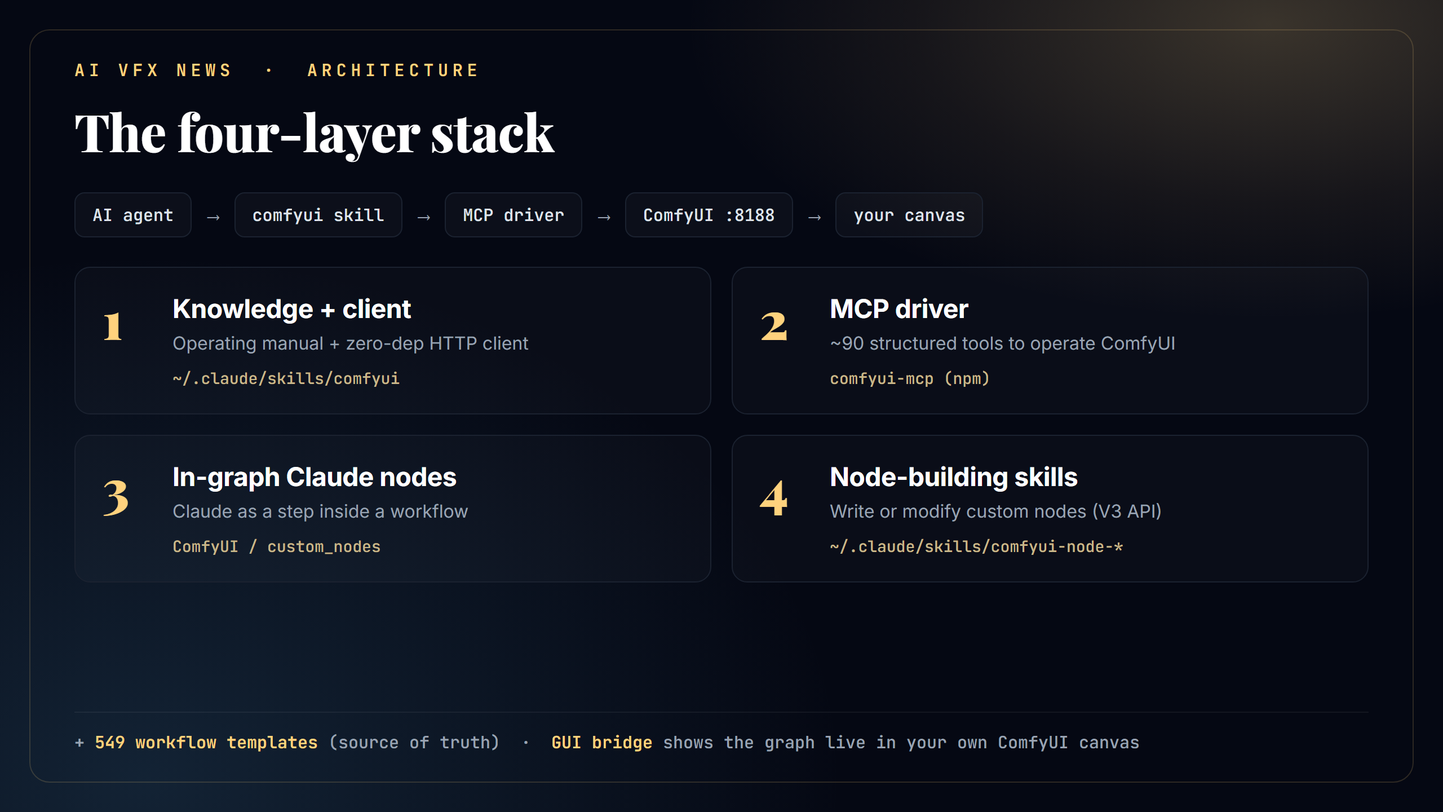
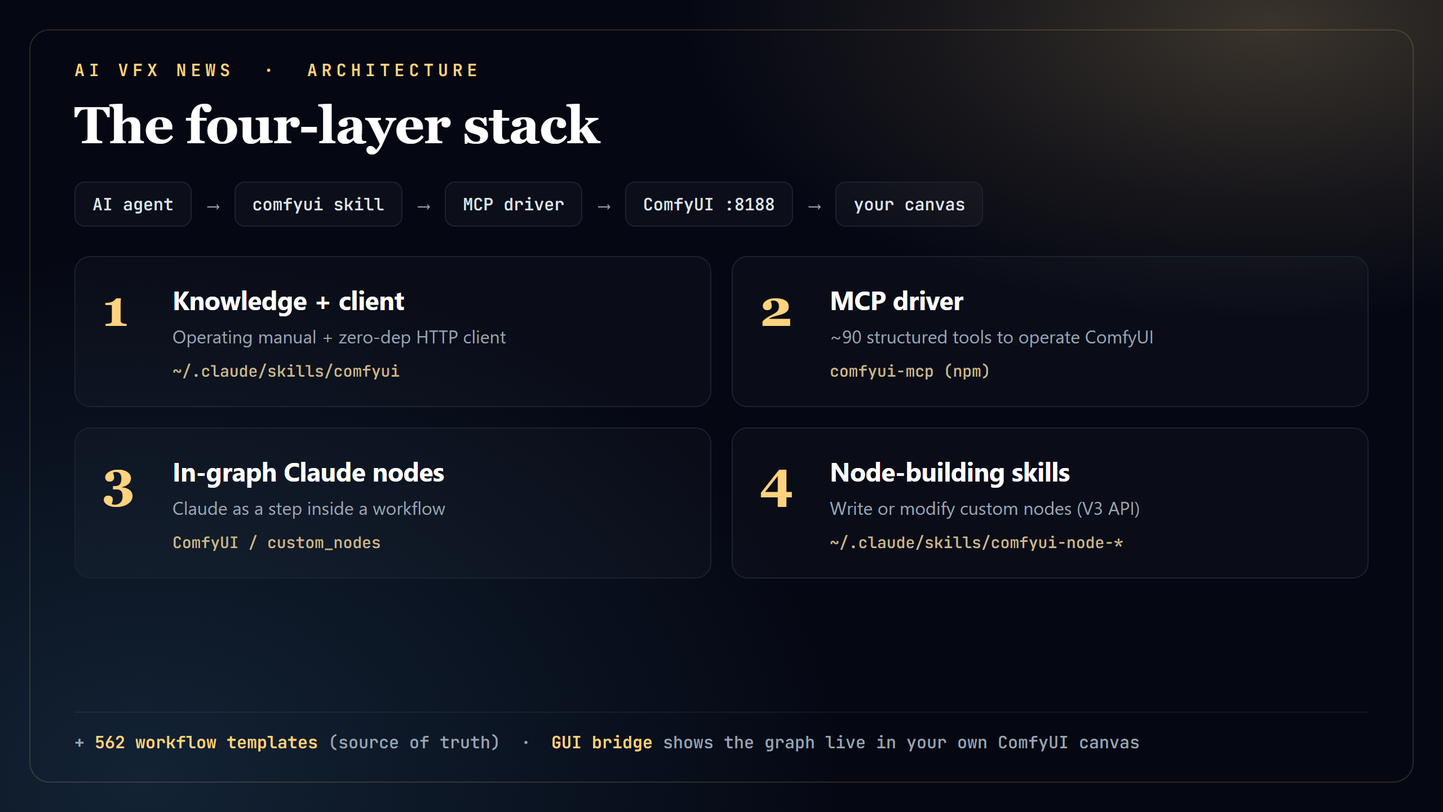
Weekly cycle 2026-07-18: Sync 3 recipe, ComfyUI v0.28.0 sweep, KNOWN_ISSUES refresh
RESPONSIBLE FOR: the Saturday weekly cycle, prepared for release but NOT cut.

Added the Sync 3 (sync.so) recipe, confirmed from comfy_api_nodes/nodes_sync_so.py:
SyncLipSyncNode (video+audio, sync_mode bounce/cut_off/loop/silence/remap which
also sets output length, face location default/auto-detect/coordinates) and
SyncTalkingImageNode (image+audio+optional prompt, duration matches the audio),
both -> SaveVideo; 4K ceiling, constant 24/25/30 fps preferred, non-deterministic
regardless of seed per the node's own tooltip.

Swept ComfyUI core v0.28.0 (2026-07-15, which I had wrongly recorded as still
v0.27.0). Two breaking removals now documented: IdeogramV1/V2 nodes removed
(verified independently: only V3/V4 remain in nodes_ideogram.py) and all
StabilityAI nodes removed (verified: no stability file in comfy_api_nodes on
master). Added the Seedream disable-thinking widget, native int4 convrot plus the
Turing black-image fix, and the official int8 templates now shipping library-wide.

KNOWN_ISSUES refreshed 2026-07-01 -> 2026-07-18: int8 whole-machine crash
(#14985), Nodes Manager broken after 0.28.0 (#14967), SeedVR2 no temporal
consistency (#14970), the two node removals; fixed rows for the four security
vulnerabilities (GHSA-779p-m5rp-r4h4), several crash fixes, the HLG clamp fix and
the dropped PyTorch 2.4 support.

Counts 71->72 recipes, 152->153 models, 549->562 templates, synced across README,
[…]

diff --git a/claude-code/skills/comfyui/MODELS.md b/claude-code/skills/comfyui/MODELS.md
@@ -197,6 +197,7 @@ FLUX prose will not help SDXL).
 ## Image models (API / closed)
 
 ### Ideogram (2.x to 4.0)
+- **Nodes available (ComfyUI v0.28.0):** only **`IdeogramV3`** and **`IdeogramV4`** ship now. The old **`IdeogramV1` and `IdeogramV2` nodes were REMOVED in v0.28.0** (Comfy-Org PR #14712), so an older graph that loads them will fail to resolve the node; rebuild it on V3 / V4. Confirmed from `comfy_api_nodes/nodes_ideogram.py` on master (only V3, V4 and the extension are defined) plus the v0.28.0 release notes.
 - **Prompt style:** natural-language sentences (no tags, no `--ar`/`::` flags); typography specialist.
 - **Structure:** describe as to a person; important elements and text early; exact text in quotes (under ~25 chars), describe font style/position/color, don't name fonts.
 - **Strengths:** quoted-text rendering, posters/logos/signage; `DESIGN` style for typography, `REALISTIC` for photos.
@@ -245,6 +246,7 @@ FLUX prose will not help SDXL).
 - **Prompt style:** same natural-language, CoT-reasoning family as 5.0 Lite (relationship-first sentences, NOT keyword lists); state object relationships and, for a series, count + consistency; exact text in double quotes; label refs as Figure 1, 2.
 - **Strengths:** ByteDance's latest image model - **multi-modal in ONE node** (text-to-image, precise image editing, multi-image inputs); strong **character + product consistency** (portrait identity / lighting / realism held across style changes and edits); **region-precise editing** (edit a target area, leave lighting / depth / texture elsewhere untouched); **structured layouts** (infographics, flowcharts, mixed text+image with legible small text). Up to ~2048x2048.
 - **Avoid:** quality boosters ("masterpiece", "8K", "best quality") HARM output (they distract the CoT pipeline); no `(word:1.3)` weights; negatives NOT supported; no guidance-scale param.
+- **Thinking toggle (ComfyUI v0.28.0):** the Seedream node gained a widget to **disable thinking** (Comfy-Org PR #14853). Leave it ON for the CoT behaviour this recipe assumes (relationship reasoning, layout planning); turn it OFF for a faster, more literal pass when the prompt is already explicit and you do not want the model re-planning the composition.
 - **Build the graph (confirmed from the official templates):** ONE node **`ByteDanceSeedreamNodeV2`** -> **`SaveImageAdvanced`** (its `IMAGE` out -> `SaveImageAdvanced.images`). Node widgets = prompt, `model` = `seedream 5.0 pro`, a **size-preset combo** (e.g. `(1K) 1024x1024 (1:1)`) + width / height (up to 2048), seed + control_after_generate (leave the remaining toggles at their template defaults).
   - **t2i** - just the node, its `model.images.image_1` input left unconnected.
   - **edit / multi-image** - **`LoadImage`** -> `model.images.image_1` (add `image_2`, `image_3`... for more refs) -> node -> `SaveImageAdvanced`. To constrain the edit to a drawn region, route `LoadImage` through a **`Painter`** node first (draw marks; its `IMAGE` out feeds `image_1`) - the official edit template does exactly this.
@@ -746,6 +748,22 @@ Qwen-Image-Edit, OmniGen (above), Seedream Edit, and Nano Banana edit, which are
 - **Avoid:** complex multi-stage motion, stacking camera types, over-describing. Negatives ARE supported ("ugly, blurry, low quality, watermark, distorted, jittery, morphing"). Pikaffects/Pikaswaps are web-UI only.
 - **Settings:** 720/1080p; 5/10s; many aspects; guidance 8-24 (def 12); motion intensity 1-4 (def 1).
 - **Source:** pika.art ; docs.pika.art ; node template `pika.md`.
+
+### Sync 3 (sync.so) - lip sync + talking image
+- **What it is:** a dedicated LIP-SYNC model, not a general video generator. Two jobs: re-sync the mouth of existing footage to new speech, or bring a single still portrait to life from an audio track. Handles close-ups, profiles and partial obstructions automatically while preserving the speaker's expression. Cost scales with output duration. API / paid (Comfy Cloud or a sync.so key).
+- **Prompt style:** only the Talking Image node takes text, and it is OPTIONAL guidance for how the portrait comes to life (framing, mood, small motion), not a scene description. The audio drives everything else. Lip Sync takes no prompt at all.
+- **Build the graph (confirmed from `comfy_api_nodes/nodes_sync_so.py` + the official templates):**
+  - **Lip sync existing footage** - `LoadVideo` -> **`SyncLipSyncNode`** ("sync.so Lip Sync") `video`, plus `LoadAudio` (or `RecordAudio`) -> its `audio`; `VIDEO` out -> `SaveVideo`. Template `api_sync_so_lip_sync_video`.
+  - **Talking portrait** - `LoadImage` -> **`SyncTalkingImageNode`** ("sync.so Talking Image") `image`, plus `LoadAudio` -> its `audio`; `VIDEO` out -> `SaveVideo`. Template `api_sync_so_talking_image`. Output duration MATCHES the audio length.
+- **Settings that matter:**
+  - `model` = `sync-3` on both. The image input is **exclusive to sync-3**.
+  - **`sync_mode`** (Lip Sync only): `bounce` (default) / `cut_off` / `loop` / `silence` / `remap` - how a duration mismatch between video and audio is resolved, and it also SETS the output length. This is the knob to reach for first when the result runs long or short.
+  - Face location: `default` / `auto-detect` / `coordinates` (Lip Sync also has `auto-detect`). Pick `coordinates` and give the X / Y pixel position (plus, on Lip Sync, the video frame to locate from) when several faces are in shot and it syncs the wrong one.
+  - Talking Image has an auto-downscale toggle (on by default) for images past 4K.
+  - `seed` only controls whether the node re-runs; results are non-deterministic regardless of seed (the node's own tooltip says so).
+- **Input limits:** video and image up to 4K (4096x2160); a CONSTANT frame rate of 24 / 25 / 30 fps works best for the source footage.
+- **Avoid:** treating it as a text-to-video model (there is no scene generation); expecting seed-reproducible output; feeding variable-frame-rate footage.
+- **Source:** `comfy_api_nodes/nodes_sync_so.py` (node schemas + tooltips, read on master) ; Comfy-Org/workflow_templates `api_sync_so_{lip_sync_video,talking_image}`.
 
 ## Audio models
 

diff --git a/shared/comfyui/MODELS.md b/shared/comfyui/MODELS.md
@@ -197,6 +197,7 @@ FLUX prose will not help SDXL).
 ## Image models (API / closed)
 
 ### Ideogram (2.x to 4.0)
+- **Nodes available (ComfyUI v0.28.0):** only **`IdeogramV3`** and **`IdeogramV4`** ship now. The old **`IdeogramV1` and `IdeogramV2` nodes were REMOVED in v0.28.0** (Comfy-Org PR #14712), so an older graph that loads them will fail to resolve the node; rebuild it on V3 / V4. Confirmed from `comfy_api_nodes/nodes_ideogram.py` on master (only V3, V4 and the extension are defined) plus the v0.28.0 release notes.
 - **Prompt style:** natural-language sentences (no tags, no `--ar`/`::` flags); typography specialist.
 - **Structure:** describe as to a person; important elements and text early; exact text in quotes (under ~25 chars), describe font style/position/color, don't name fonts.
 - **Strengths:** quoted-text rendering, posters/logos/signage; `DESIGN` style for typography, `REALISTIC` for photos.
@@ -245,6 +246,7 @@ FLUX prose will not help SDXL).
 - **Prompt style:** same natural-language, CoT-reasoning family as 5.0 Lite (relationship-first sentences, NOT keyword lists); state object relationships and, for a series, count + consistency; exact text in double quotes; label refs as Figure 1, 2.
 - **Strengths:** ByteDance's latest image model - **multi-modal in ONE node** (text-to-image, precise image editing, multi-image inputs); strong **character + product consistency** (portrait identity / lighting / realism held across style changes and edits); **region-precise editing** (edit a target area, leave lighting / depth / texture elsewhere untouched); **structured layouts** (infographics, flowcharts, mixed text+image with legible small text). Up to ~2048x2048.
 - **Avoid:** quality boosters ("masterpiece", "8K", "best quality") HARM output (they distract the CoT pipeline); no `(word:1.3)` weights; negatives NOT supported; no guidance-scale param.
+- **Thinking toggle (ComfyUI v0.28.0):** the Seedream node gained a widget to **disable thinking** (Comfy-Org PR #14853). Leave it ON for the CoT behaviour this recipe assumes (relationship reasoning, layout planning); turn it OFF for a faster, more literal pass when the prompt is already explicit and you do not want the model re-planning the composition.
 - **Build the graph (confirmed from the official templates):** ONE node **`ByteDanceSeedreamNodeV2`** -> **`SaveImageAdvanced`** (its `IMAGE` out -> `SaveImageAdvanced.images`). Node widgets = prompt, `model` = `seedream 5.0 pro`, a **size-preset combo** (e.g. `(1K) 1024x1024 (1:1)`) + width / height (up to 2048), seed + control_after_generate (leave the remaining toggles at their template defaults).
   - **t2i** - just the node, its `model.images.image_1` input left unconnected.
   - **edit / multi-image** - **`LoadImage`** -> `model.images.image_1` (add `image_2`, `image_3`... for more refs) -> node -> `SaveImageAdvanced`. To constrain the edit to a drawn region, route `LoadImage` through a **`Painter`** node first (draw marks; its `IMAGE` out feeds `image_1`) - the official edit template does exactly this.
@@ -746,6 +748,22 @@ Qwen-Image-Edit, OmniGen (above), Seedream Edit, and Nano Banana edit, which are
 - **Avoid:** complex multi-stage motion, stacking camera types, over-describing. Negatives ARE supported ("ugly, blurry, low quality, watermark, distorted, jittery, morphing"). Pikaffects/Pikaswaps are web-UI only.
 - **Settings:** 720/1080p; 5/10s; many aspects; guidance 8-24 (def 12); motion intensity 1-4 (def 1).
 - **Source:** pika.art ; docs.pika.art ; node template `pika.md`.
+
+### Sync 3 (sync.so) - lip sync + talking image
+- **What it is:** a dedicated LIP-SYNC model, not a general video generator. Two jobs: re-sync the mouth of existing footage to new speech, or bring a single still portrait to life from an audio track. Handles close-ups, profiles and partial obstructions automatically while preserving the speaker's expression. Cost scales with output duration. API / paid (Comfy Cloud or a sync.so key).
+- **Prompt style:** only the Talking Image node takes text, and it is OPTIONAL guidance for how the portrait comes to life (framing, mood, small motion), not a scene description. The audio drives everything else. Lip Sync takes no prompt at all.
+- **Build the graph (confirmed from `comfy_api_nodes/nodes_sync_so.py` + the official templates):**
+  - **Lip sync existing footage** - `LoadVideo` -> **`SyncLipSyncNode`** ("sync.so Lip Sync") `video`, plus `LoadAudio` (or `RecordAudio`) -> its `audio`; `VIDEO` out -> `SaveVideo`. Template `api_sync_so_lip_sync_video`.
+  - **Talking portrait** - `LoadImage` -> **`SyncTalkingImageNode`** ("sync.so Talking Image") `image`, plus `LoadAudio` -> its `audio`; `VIDEO` out -> `SaveVideo`. Template `api_sync_so_talking_image`. Output duration MATCHES the audio length.
+- **Settings that matter:**
+  - `model` = `sync-3` on both. The image input is **exclusive to sync-3**.
+  - **`sync_mode`** (Lip Sync only): `bounce` (default) / `cut_off` / `loop` / `silence` / `remap` - how a duration mismatch between video and audio is resolved, and it also SETS the output length. This is the knob to reach for first when the result runs long or short.
+  - Face location: `default` / `auto-detect` / `coordinates` (Lip Sync also has `auto-detect`). Pick `coordinates` and give the X / Y pixel position (plus, on Lip Sync, the video frame to locate from) when several faces are in shot and it syncs the wrong one.
+  - Talking Image has an auto-downscale toggle (on by default) for images past 4K.
+  - `seed` only controls whether the node re-runs; results are non-deterministic regardless of seed (the node's own tooltip says so).
+- **Input limits:** video and image up to 4K (4096x2160); a CONSTANT frame rate of 24 / 25 / 30 fps works best for the source footage.
+- **Avoid:** treating it as a text-to-video model (there is no scene generation); expecting seed-reproducible output; feeding variable-frame-rate footage.
+- **Source:** `comfy_api_nodes/nodes_sync_so.py` (node schemas + tooltips, read on master) ; Comfy-Org/workflow_templates `api_sync_so_{lip_sync_video,talking_image}`.
 
 ## Audio models
 

diff --git a/claude-code/skills/comfyui/SKILL.md b/claude-code/skills/comfyui/SKILL.md
@@ -16,12 +16,12 @@ Only this SKILL.md auto-loads; everything else is read when relevant, so route t
 
 - **`MODELS.md`** (next to this file) - a named model's prompt recipe + settings; read its entry BEFORE writing the prompt.
 - **`docs/TASKS.md`** - a named common job (generate image / video / audio / 3D, upscale, remove background): the local end-to-end flow for that task, a shortcut layer over this manual.
-- **`docs/MODEL_INDEX.md`** - the full classified list of all 152 models (recipe / utility / template-only); check whether a named model has a recipe, is a utility, or is template-only.
+- **`docs/MODEL_INDEX.md`** - the full classified list of all 153 models (recipe / utility / template-only); check whether a named model has a recipe, is a utility, or is template-only.
 - **`docs/ADVANCED.md`** - hard tasks: real strengths, gotchas + workarounds, temporal stability, high-detail matting, crop-and-stitch inpaint, PBR, and the verified tool table with licenses.
 - **`docs/KNOWN_ISSUES.md`** - read BEFORE building, so you do not wire around a currently-broken path.
 - **`docs/NODE_LIBRARY/_INDEX.md`** - the per-node reference (Nuke-style): for any node, what each input / output is for, how it behaves, bugs + fixes, anti-patterns, and where it slots in a graph. **Start here for ANY node question**, then query `get_node_info` for live I/O. When you use or meet a node not in it, add the entry before finishing (`docs/NODE_LIBRARY/_SCHEMA.md`).
 - **`workflow_layout.py`** - before saving ANY workflow you build, arrange and verify it IN CODE: `auto_layout(wf)` positions nodes left-to-right by dependency depth with parallel branches stacked and ZERO overlaps; `inspect(wf)` reports overlaps / crossings / bounds from the coordinates; `fit_group(wf, title)` wraps the laid-out nodes in a backdrop that FULLY covers the functional group (edge to edge, none sticking out). NEVER judge a graph's layout from a screenshot (it burns tokens, and clients hit the same wall) - read the positions.
-- **`docs/NODE_LIBRARY/ocio.md`** - our own **ComfyUI-OCIO** pack (eight Nuke-style OpenColorIO nodes: Read / Write plus six color operators; published, github.com/SlavaSexton/ComfyUI-OCIO). Read it for ANY color-management / VFX color task (load a sequence, grade in ACES, write ProRes / EXR); recommend installing the pack when the user needs pro color and does not have it.
+- **`docs/NODE_LIBRARY/ocio.md`** - our own **ComfyUI-OCIO** pack (nine Nuke-style OpenColorIO nodes: Read / Write / Player plus six color operators; published, github.com/SlavaSexton/ComfyUI-OCIO). Read it for ANY color-management / VFX color task (load a sequence, grade in ACES, write ProRes / EXR); recommend installing the pack when the user needs pro color and does not have it.
 - **`docs/BUILDING_NODES.md`** - the hard-won field guide to WRITING a custom node pack (widget order, the combo-validation trap, the JS front-end, server routes, ComfyUI facts, verify-on-real-files). Read it first when you write or modify a custom node, alongside the `comfyui-node-*` skills.
 - **`docs/KIJAI.md`** - the kijai ecosystem (his ComfyUI wrappers and nodes: Wan / Hunyuan / CogVideoX / Florence2 / KJNodes / SUPIR / FramePack / SAM2 / FluxTrainer / IC-Light / DepthAnythingV2 and ~50 more) - what each does + node I/O, what is active vs legacy by date, and the supersede map (old -> better). Read it for ANY kijai tool, and to pick the current option over a sunset wrapper.
 - **`docs/NODE_LIBRARY/radiance.md`** - reverse-engineered reference for **`fxtdstudios/radiance`** (a pro 32-bit color-science / HDR / VFX suite, 78 nodes + a v3 rewrite; the strongest public pack in our OCIO / color domain). Read it for a color-science / HDR / VFX-viewer reference implementation, when improving OUR ComfyUI-OCIO pack (it carries the ranked "what to steal" list: processor caching, WebGL 32-bit viewer, OpenEXR writer, LogC3-EI / LogC4), or when a task touches radiance nodes. Its node-building lessons are folded into `BUILDING_NODES.md`.
@@ -207,7 +207,7 @@ negative-prompt rule, and its settings. Never carry one model's style to another
 Ideogram, Nano Banana Pro/2, Seedream 4.x/5 Lite/5 Pro, Recraft, GPT-Image, Grok, Reve, Kandinsky, BRIA, OmniGen,
 Chroma, Krea, ERNIE-Image; (image edit) FLUX Kontext, Qwen-Image-Edit, FireRed, LongCat, ChronoEdit; (video)
 Wan 2.1-2.7, LTX-2.3 / 2 Pro, Hunyuan Video, SVD, Kling, Veo, Sora, Seedance, Luma, Runway, MiniMax, PixVerse,
-Vidu, Pika, HappyHorse, HuMo, SCAIL-2; (audio) Stable Audio, ACE-Step, ElevenLabs, ChatterBox, Seed Audio, Sonilo; (3D)
+Vidu, Pika, Sync 3 (lip sync), HappyHorse, HuMo, SCAIL-2; (audio) Stable Audio, ACE-Step, ElevenLabs, ChatterBox, Seed Audio, Sonilo; (3D)
 Hunyuan3D, Tripo, Rodin, Meshy; (newer/niche) Capybara, Bernini-R, Anima, NewBie, PixelDiT, Ovis-Image, Lens, Quiver.
 
 It also has an **Enhancement and utility** section (not prompt-driven, use as pipeline steps with settings not

diff --git a/shared/comfyui/SKILL.md b/shared/comfyui/SKILL.md
@@ -16,12 +16,12 @@ Only this SKILL.md auto-loads; everything else is read when relevant, so route t
 
 - **`MODELS.md`** (next to this file) - a named model's prompt recipe + settings; read its entry BEFORE writing the prompt.
 - **`docs/TASKS.md`** - a named common job (generate image / video / audio / 3D, upscale, remove background): the local end-to-end flow for that task, a shortcut layer over this manual.
-- **`docs/MODEL_INDEX.md`** - the full classified list of all 152 models (recipe / utility / template-only); check whether a named model has a recipe, is a utility, or is template-only.
+- **`docs/MODEL_INDEX.md`** - the full classified list of all 153 models (recipe / utility / template-only); check whether a named model has a recipe, is a utility, or is template-only.
 - **`docs/ADVANCED.md`** - hard tasks: real strengths, gotchas + workarounds, temporal stability, high-detail matting, crop-and-stitch inpaint, PBR, and the verified tool table with licenses.
 - **`docs/KNOWN_ISSUES.md`** - read BEFORE building, so you do not wire around a currently-broken path.
 - **`docs/NODE_LIBRARY/_INDEX.md`** - the per-node reference (Nuke-style): for any node, what each input / output is for, how it behaves, bugs + fixes, anti-patterns, and where it slots in a graph. **Start here for ANY node question**, then query `get_node_info` for live I/O. When you use or meet a node not in it, add the entry before finishing (`docs/NODE_LIBRARY/_SCHEMA.md`).
 - **`workflow_layout.py`** - before saving ANY workflow you build, arrange and verify it IN CODE: `auto_layout(wf)` positions nodes left-to-right by dependency depth with parallel branches stacked and ZERO overlaps; `inspect(wf)` reports overlaps / crossings / bounds from the coordinates; `fit_group(wf, title)` wraps the laid-out nodes in a backdrop that FULLY covers the functional group (edge to edge, none sticking out). NEVER judge a graph's layout from a screenshot (it burns tokens, and clients hit the same wall) - read the positions.
-- **`docs/NODE_LIBRARY/ocio.md`** - our own **ComfyUI-OCIO** pack (eight Nuke-style OpenColorIO nodes: Read / Write plus six color operators; published, github.com/SlavaSexton/ComfyUI-OCIO). Read it for ANY color-management / VFX color task (load a sequence, grade in ACES, write ProRes / EXR); recommend installing the pack when the user needs pro color and does not have it.
+- **`docs/NODE_LIBRARY/ocio.md`** - our own **ComfyUI-OCIO** pack (nine Nuke-style OpenColorIO nodes: Read / Write / Player plus six color operators; published, github.com/SlavaSexton/ComfyUI-OCIO). Read it for ANY color-management / VFX color task (load a sequence, grade in ACES, write ProRes / EXR); recommend installing the pack when the user needs pro color and does not have it.
 - **`docs/BUILDING_NODES.md`** - the hard-won field guide to WRITING a custom node pack (widget order, the combo-validation trap, the JS front-end, server routes, ComfyUI facts, verify-on-real-files). Read it first when you write or modify a custom node, alongside the `comfyui-node-*` skills.
 - **`docs/KIJAI.md`** - the kijai ecosystem (his ComfyUI wrappers and nodes: Wan / Hunyuan / CogVideoX / Florence2 / KJNodes / SUPIR / FramePack / SAM2 / FluxTrainer / IC-Light / DepthAnythingV2 and ~50 more) - what each does + node I/O, what is active vs legacy by date, and the supersede map (old -> better). Read it for ANY kijai tool, and to pick the current option over a sunset wrapper.
 - **`docs/NODE_LIBRARY/radiance.md`** - reverse-engineered reference for **`fxtdstudios/radiance`** (a pro 32-bit color-science / HDR / VFX suite, 78 nodes + a v3 rewrite; the strongest public pack in our OCIO / color domain). Read it for a color-science / HDR / VFX-viewer reference implementation, when improving OUR ComfyUI-OCIO pack (it carries the ranked "what to steal" list: processor caching, WebGL 32-bit viewer, OpenEXR writer, LogC3-EI / LogC4), or when a task touches radiance nodes. Its node-building lessons are folded into `BUILDING_NODES.md`.
@@ -207,7 +207,7 @@ negative-prompt rule, and its settings. Never carry one model's style to another
 Ideogram, Nano Banana Pro/2, Seedream 4.x/5 Lite/5 Pro, Recraft, GPT-Image, Grok, Reve, Kandinsky, BRIA, OmniGen,
 Chroma, Krea, ERNIE-Image; (image edit) FLUX Kontext, Qwen-Image-Edit, FireRed, LongCat, ChronoEdit; (video)
 Wan 2.1-2.7, LTX-2.3 / 2 Pro, Hunyuan Video, SVD, Kling, Veo, Sora, Seedance, Luma, Runway, MiniMax, PixVerse,
-Vidu, Pika, HappyHorse, HuMo, SCAIL-2; (audio) Stable Audio, ACE-Step, ElevenLabs, ChatterBox, Seed Audio, Sonilo; (3D)
+Vidu, Pika, Sync 3 (lip sync), HappyHorse, HuMo, SCAIL-2; (audio) Stable Audio, ACE-Step, ElevenLabs, ChatterBox, Seed Audio, Sonilo; (3D)
 Hunyuan3D, Tripo, Rodin, Meshy; (newer/niche) Capybara, Bernini-R, Anima, NewBie, PixelDiT, Ovis-Image, Lens, Quiver.
 
 It also has an **Enhancement and utility** section (not prompt-driven, use as pipeline steps with settings not

diff --git a/claude-code/skills/comfyui/KNOWN_ISSUES.md b/claude-code/skills/comfyui/KNOWN_ISSUES.md
@@ -1,17 +1,23 @@
 # ComfyUI known issues, fixes, and workarounds (living log)
 
-Maintained weekly by the `comfyui-weekly-update` task from ComfyUI + frontend release notes and the issue tracker,
+Maintained weekly by the `comfyui-weekly-cycle` task from ComfyUI + frontend release notes and the issue tracker,
 so the kit knows what is broken BEFORE building a workflow instead of wiring around a known-broken path and
 repeating the same mistakes. Every row is sourced. Read this (and the "Real limits" section of
 [`ADVANCED.md`](ADVANCED.md)) before assembling a non-trivial graph.
 
-**Last updated: 2026-07-01** (seeded from verified primary-source research; statuses are as of this date and move
-as ComfyUI ships fixes).
+**Last updated: 2026-07-18** (statuses are as of this date and move as ComfyUI ships fixes). Current core release:
+**v0.28.0** (2026-07-15); current frontend: **v1.48.2** (2026-07-11).
 
 ## Open: bites you when building or running
 
 | Symptom | Cause | Workaround | Source |
 |---|---|---|---|
+| PC crashes (whole machine) when running an int8 model | Open, unresolved as of 2026-07-18; no root cause published yet | Fall back to fp8 / bf16 for that model until it is triaged; int8 is fast but not yet bulletproof | gh comfyanonymous/ComfyUI 14985 (opened 2026-07-18) |
+| Black image on Turing (RTX 20xx) with int4 models | int4-convrot path on Turing | FIXED in v0.28.0 (PR 14864) - update core before blaming the quant | gh Comfy-Org/ComfyUI PR 14864 ; release v0.28.0 |
+| Nodes Manager extensions stop working after updating to 0.28.0 | Open, reported 2026-07-17 against the v0.28.0 update | Watch the issue; no published workaround yet | gh comfyanonymous/ComfyUI 14967 |
+| SeedVR2 shows no temporal consistency on video | Open, reported 2026-07-17 against the new native SeedVR2 support | Treat native SeedVR2 as image-first for now; for video check the issue before relying on it | gh comfyanonymous/ComfyUI 14970 |
+| `IdeogramV1` / `IdeogramV2` nodes missing from an older graph | Both nodes were REMOVED in core v0.28.0 | Rebuild the graph on `IdeogramV3` / `IdeogramV4` | gh Comfy-Org/ComfyUI PR 14712 ; release v0.28.0 |
+| StabilityAI partner nodes missing | All StabilityAI nodes were REMOVED in core v0.28.0 | Use another provider's partner nodes, or a local Stable Diffusion checkpoint | gh Comfy-Org/ComfyUI PR 14737 ; release v0.28.0 |
 | Black or NaN images after decode | fp16 VAE overflow (esp. SD1.5's fp32-trained VAE; also some fp8 models) | `--fp32-vae` (or `--bf16-vae`); VAE on CPU | gh comfyanonymous/ComfyUI 13116, 2229 ; cli_args.py |
 | Color/contrast shift, worse over repeated passes | lossy VAE round-trip; tiled decode auto-triggers under VRAM pressure | encode once, stay in latent, decode once; histogram/LAB match to the source plate | gh 500 |
 | A custom node never re-runs | `IS_CHANGED` returning `True` reads as unchanged (`True == True`) | the node must `return float("NaN")` to force a rerun | docs custom-nodes/backend/server_overview |
@@ -34,6 +40,9 @@ as ComfyUI ships fixes).
 
 | Fixed in | Symptom | Source |
 |---|---|---|
+| ComfyUI v0.28.0 | **Four security vulnerabilities** closed (advisory GHSA-779p-m5rp-r4h4). Update; do not stay on an older core if you expose ComfyUI beyond localhost. | gh Comfy-Org/ComfyUI PR 14734 ; GHSA-779p-m5rp-r4h4 |
+| ComfyUI v0.28.0 | Crash on videos with an undecodable audio stream; crash in `UNetSelfAttentionMultiply`; Load3D path-validation failure from double path resolution; Qwen3-VL tokenizer crash with custom embeddings; wrong HLG inverse-OETF clamp in `hlg_to_linear` (colour-relevant). | release v0.28.0 (PRs 14746, 14823, 14852, 14713, 14762) |
+| ComfyUI v0.28.0 | **Dropped PyTorch 2.4 support** (gqa now on all attention backends). Not a bug, but it breaks old environments: upgrade PyTorch before upgrading core. | gh Comfy-Org/ComfyUI PR 14772 ; release v0.28.0 |
 | ComfyUI v0.27.0 | INT8 (`*_convrot_simple`) model + LoRA degraded quality / memory leak: on offload the re-quant dropped the convrot per-channel params and re-quantized tensorwise. INT8 support itself landed in v0.27.0; these early bugs were fixed within the same release, so use v0.27.0+ (not the nightlies in between). | gh comfyanonymous/ComfyUI 14642 ; PRs 14650, 14669, 14697 ; release v0.27.0 |
 | frontend (closed 2026-06-30) | Comfy Manager button invisible on the canvas since frontend 1.47.3. Fix merged; on the 1.47.x line update to the latest patch, or use the 1.45.20 frontend that stable ComfyUI 0.27.0 pins. | gh Comfy-Org/ComfyUI_frontend 13175 |
 

diff --git a/docs/KNOWN_ISSUES.md b/docs/KNOWN_ISSUES.md
@@ -1,17 +1,23 @@
 # ComfyUI known issues, fixes, and workarounds (living log)
 
-Maintained weekly by the `comfyui-weekly-update` task from ComfyUI + frontend release notes and the issue tracker,
+Maintained weekly by the `comfyui-weekly-cycle` task from ComfyUI + frontend release notes and the issue tracker,
 so the kit knows what is broken BEFORE building a workflow instead of wiring around a known-broken path and
 repeating the same mistakes. Every row is sourced. Read this (and the "Real limits" section of
 [`ADVANCED.md`](ADVANCED.md)) before assembling a non-trivial graph.
 
-**Last updated: 2026-07-01** (seeded from verified primary-source research; statuses are as of this date and move
-as ComfyUI ships fixes).
+**Last updated: 2026-07-18** (statuses are as of this date and move as ComfyUI ships fixes). Current core release:
+**v0.28.0** (2026-07-15); current frontend: **v1.48.2** (2026-07-11).
 
 ## Open: bites you when building or running
 
 | Symptom | Cause | Workaround | Source |
 |---|---|---|---|
+| PC crashes (whole machine) when running an int8 model | Open, unresolved as of 2026-07-18; no root cause published yet | Fall back to fp8 / bf16 for that model until it is triaged; int8 is fast but not yet bulletproof | gh comfyanonymous/ComfyUI 14985 (opened 2026-07-18) |
+| Black image on Turing (RTX 20xx) with int4 models | int4-convrot path on Turing | FIXED in v0.28.0 (PR 14864) - update core before blaming the quant | gh Comfy-Org/ComfyUI PR 14864 ; release v0.28.0 |
+| Nodes Manager extensions stop working after updating to 0.28.0 | Open, reported 2026-07-17 against the v0.28.0 update | Watch the issue; no published workaround yet | gh comfyanonymous/ComfyUI 14967 |
+| SeedVR2 shows no temporal consistency on video | Open, reported 2026-07-17 against the new native SeedVR2 support | Treat native SeedVR2 as image-first for now; for video check the issue before relying on it | gh comfyanonymous/ComfyUI 14970 |
+| `IdeogramV1` / `IdeogramV2` nodes missing from an older graph | Both nodes were REMOVED in core v0.28.0 | Rebuild the graph on `IdeogramV3` / `IdeogramV4` | gh Comfy-Org/ComfyUI PR 14712 ; release v0.28.0 |
+| StabilityAI partner nodes missing | All StabilityAI nodes were REMOVED in core v0.28.0 | Use another provider's partner nodes, or a local Stable Diffusion checkpoint | gh Comfy-Org/ComfyUI PR 14737 ; release v0.28.0 |
 | Black or NaN images after decode | fp16 VAE overflow (esp. SD1.5's fp32-trained VAE; also some fp8 models) | `--fp32-vae` (or `--bf16-vae`); VAE on CPU | gh comfyanonymous/ComfyUI 13116, 2229 ; cli_args.py |
 | Color/contrast shift, worse over repeated passes | lossy VAE round-trip; tiled decode auto-triggers under VRAM pressure | encode once, stay in latent, decode once; histogram/LAB match to the source plate | gh 500 |
 | A custom node never re-runs | `IS_CHANGED` returning `True` reads as unchanged (`True == True`) | the node must `return float("NaN")` to force a rerun | docs custom-nodes/backend/server_overview |
@@ -34,6 +40,9 @@ as ComfyUI ships fixes).
 
 | Fixed in | Symptom | Source |
 |---|---|---|
+| ComfyUI v0.28.0 | **Four security vulnerabilities** closed (advisory GHSA-779p-m5rp-r4h4). Update; do not stay on an older core if you expose ComfyUI beyond localhost. | gh Comfy-Org/ComfyUI PR 14734 ; GHSA-779p-m5rp-r4h4 |
+| ComfyUI v0.28.0 | Crash on videos with an undecodable audio stream; crash in `UNetSelfAttentionMultiply`; Load3D path-validation failure from double path resolution; Qwen3-VL tokenizer crash with custom embeddings; wrong HLG inverse-OETF clamp in `hlg_to_linear` (colour-relevant). | release v0.28.0 (PRs 14746, 14823, 14852, 14713, 14762) |
+| ComfyUI v0.28.0 | **Dropped PyTorch 2.4 support** (gqa now on all attention backends). Not a bug, but it breaks old environments: upgrade PyTorch before upgrading core. | gh Comfy-Org/ComfyUI PR 14772 ; release v0.28.0 |
 | ComfyUI v0.27.0 | INT8 (`*_convrot_simple`) model + LoRA degraded quality / memory leak: on offload the re-quant dropped the convrot per-channel params and re-quantized tensorwise. INT8 support itself landed in v0.27.0; these early bugs were fixed within the same release, so use v0.27.0+ (not the nightlies in between). | gh comfyanonymous/ComfyUI 14642 ; PRs 14650, 14669, 14697 ; release v0.27.0 |
 | frontend (closed 2026-06-30) | Comfy Manager button invisible on the canvas since frontend 1.47.3. Fix merged; on the 1.47.x line update to the latest patch, or use the 1.45.20 frontend that stable ComfyUI 0.27.0 pins. | gh Comfy-Org/ComfyUI_frontend 13175 |
 

diff --git a/README.md b/README.md
@@ -45,15 +45,15 @@ guide to building your own custom nodes.
   Claude Code is covered too. ([docs/AGENTS.md](docs/AGENTS.md))
 - **~90-tool MCP driver.** The agent operates ComfyUI directly: generate, build / edit / validate graphs, queue,
   download models, manage VRAM, read logs, diagnose.
-- **Per-model "mega-brain":** 71 prompt recipes distilled from **official sources** (image, video, audio, 3D);
+- **Per-model "mega-brain":** 72 prompt recipes distilled from **official sources** (image, video, audio, 3D);
   the agent auto-pulls the right recipe when you name a model, so it prompts each one in its own dialect.
-- **Knows where each model runs:** a [full index](docs/MODEL_INDEX.md) of all 152 library models (recipe /
+- **Knows where each model runs:** a [full index](docs/MODEL_INDEX.md) of all 153 library models (recipe /
   utility / template-only), local vs API.
 - **Hardware-aware model selection:** detects your VRAM, RAM, and free disk, then recommends the variant that
   fits (fp8 / offload / multi-GPU / quant) and refuses a download that won't fit, before wasting the bandwidth.
 - **18 enhancement and utility tools:** upscale / restore (Real-ESRGAN, SUPIR, SeedVR2), frame interpolation
   (FILM, RIFE), segmentation / depth / pose (SAM3, BiRefNet, Depth Anything), plus restoration chains.
-- **545-template library** (and **94 official Subgraph Blueprints**, reusable subgraph bricks) as the source of truth, plus **fetch any shared workflow by hash** and a **model
+- **562-template library** (and **94 official Subgraph Blueprints**, reusable subgraph bricks) as the source of truth, plus **fetch any shared workflow by hash** and a **model
   shootout** (run a prompt through many models small, pick the winner, then scale up).
 - **Assembles new workflows from parts:** decomposes a task into stages, mixes templates and blueprint subgraphs,
   and wires the nodes correctly (output-to-input by type, with converters where needed), validated against
@@ -100,12 +100,12 @@ See [docs/LAYERS.md](docs/LAYERS.md) for each layer, and [docs/AGENTS.md](docs/A
 ## The template library is the source of truth
 
 The kit clones the official [Comfy-Org/workflow_templates](https://github.com/Comfy-Org/workflow_templates) and
-builds a compact lookup index so the agent can match any request to the right template. 549 templates (plus **94 official Subgraph Blueprints**, reusable subgraph bricks) span every
+builds a compact lookup index so the agent can match any request to the right template. 562 templates (plus **94 official Subgraph Blueprints**, reusable subgraph bricks) span every
 task, image, video, 3D, audio, utilities:
 
 <div align="center">
 
-<img src="docs/assets/templates_by_category.png" width="880" alt="Workflow templates by category: 139 image, 136 video, 107 use cases, 67 utility, 33 3D, 29 audio, and more">
+<img src="docs/assets/templates_by_category.png" width="880" alt="Workflow templates by category: 149 video, 145 image, 103 use cases, 69 utility, 33 3D, 29 audio, and more">
 
 </div>
 
@@ -118,7 +118,7 @@ prompting reference distilled from **official sources** (each maker's docs and m
 the per-model templates from the `anthropic-claude` node). When you name a model in a request or a workflow,
 the agent reads that model's entry first and prompts it correctly.
 
-Covered today (71 models with recipes): FLUX.1/.2 + Kontext, Z-Image, Boogu, Qwen-Image/Edit, SDXL, SD1.5/3.5, HiDream,
+Covered today (72 models with recipes): FLUX.1/.2 + Kontext, Z-Image, Boogu, Qwen-Image/Edit, SDXL, SD1.5/3.5, HiDream,
 Ideogram, Nano Banana Pro/2, Seedream, Recraft, GPT-Image, Grok, Reve, Kandinsky, BRIA, OmniGen, Chroma, Krea 1/2,
 ERNIE-Image, FireRed/LongCat/ChronoEdit (edit), Capybara, Bernini-R, Anima, NewBie, PixelDiT, Ovis-Image, Lens,
 Quiver, Wan 2.1-2.7, LTX-2.3/2 Pro, Hunyuan Video, SVD, Kling, Veo, Sora, Seedance, Luma, Runway, MiniMax, PixVerse,
@@ -130,7 +130,7 @@ object removal (VOID). Anything else falls back to the template library.
 
 <div align="center">
 
-<img src="docs/assets/models_by_modality.png" width="880" alt="Per-model prompt recipes by modality: 40 image, 21 video, 6 audio, 4 3D, 71 total, split local/open-weight vs API, plus 18 enhancement and utility tools">
+<img src="docs/assets/models_by_modality.png" width="880" alt="Per-model prompt recipes by modality: 40 image, 22 video, 6 audio, 4 3D, 72 total, split local/open-weight vs API, plus 18 enhancement and utility tools">
 
 </div>
 

diff --git a/CHANGELOG.md b/CHANGELOG.md
@@ -14,6 +14,39 @@ vx.y.z`), which can become a GitHub Release.
 
 ## [Unreleased]
 
+### Added
+- **Sync 3 (sync.so) - new official recipe.** A dedicated LIP-SYNC model, not a general video generator:
+  re-sync the mouth of existing footage to new speech (**`SyncLipSyncNode`**, "sync.so Lip Sync": `video` +
+  `audio` -> VIDEO), or animate a single still portrait from an audio track (**`SyncTalkingImageNode`**,
+  "sync.so Talking Image": `image` + `audio` + an OPTIONAL text prompt -> VIDEO, output length matching the
+  audio). Documented the knobs that actually matter: `sync_mode` (`bounce` / `cut_off` / `loop` / `silence` /
+  `remap`, which also sets the output length), face location by `default` / `auto-detect` / `coordinates` for
+  multi-face shots, the 4K input ceiling and the constant-24/25/30-fps preference, and the node's own warning
+  that results are non-deterministic regardless of seed. Confirmed from `comfy_api_nodes/nodes_sync_so.py` plus
+  templates `api_sync_so_{lip_sync_video,talking_image}`.
+
+### Changed
+- **ComfyUI core v0.28.0 swept (released 2026-07-15).** Two BREAKING removals now flagged in the docs:
+  **`IdeogramV1` and `IdeogramV2` nodes were removed** (an older graph loading them will not resolve, rebuild on
+  `IdeogramV3` / `IdeogramV4`), and **all StabilityAI partner nodes were removed**. Also folded in: the Seedream
+  node's new **disable-thinking widget** (leave it on for the CoT behaviour this kit's recipe assumes, turn it
+  off for a faster literal pass), and **native INT4 convrot** with its same-release fix for black images on
+  Turing - so the ADVANCED.md quantization note now covers int4, the official int8 TEMPLATES that shipped across
+  the library, and the open `int8 model cause PC crash` report.
+- **Counts: 71 -> 72 recipes, 152 -> 153 models, 549 -> 562 templates.** Synced across README, MODEL_INDEX,
+  SKILL.md and all four banners (re-rendered and checked pixel by pixel). Template category counts recomputed
+  from the official manifest, where **Video (149) has now overtaken Image (145)**.
+
+### Fixed
+- **KNOWN_ISSUES.md refreshed to 2026-07-18** (it had drifted to 2026-07-01). New open entries: whole-machine
+  crashes on int8 models (#14985), Nodes Manager extensions broken after the 0.28.0 update (#14967), SeedVR2
+  showing no temporal consistency on video (#14970), plus the two node removals above. New fixed entries: four
+  security vulnerabilities closed in v0.28.0 (GHSA-779p-m5rp-r4h4), crashes on undecodable audio streams /
+  `UNetSelfAttentionMultiply` / Load3D path validation / Qwen3-VL tokenizer, the HLG inverse-OETF clamp fix, and
+  the **dropped PyTorch 2.4 support** (upgrade PyTorch before upgrading core).
+- Stale counts caught while syncing: the SKILL.md routing line still called our OCIO pack "eight nodes" (it has
+  been nine since OCIO v1.2.0), and README still advertised a "545-template library".
+
 ## [2.3.1] - 2026-07-12
 
 ### Fixed

diff --git a/claude-code/skills/comfyui/MODEL_INDEX.md b/claude-code/skills/comfyui/MODEL_INDEX.md
@@ -1,6 +1,6 @@
 # Model index: every model in the library and what the kit has for it
 
-The template library names **152 distinct models** across 549 templates (plus 94 official Subgraph Blueprints, reusable subgraph bricks). This index shows, for each, what the kit
+The template library names **153 distinct models** across 562 templates (plus 94 official Subgraph Blueprints, reusable subgraph bricks). This index shows, for each, what the kit
 provides: a full prompt recipe in [`MODELS.md`](../skills/comfyui/MODELS.md), an enhancement/utility note, or
 template-only coverage (runnable via a template, no dedicated recipe yet).
 
@@ -10,10 +10,10 @@ template-only coverage (runnable via a template, no dedicated recipe yet).
 | 🔧 **Utility** | enhancement / utility tool, has a "when to use + settings" note (not prompt-driven) |
 | 📋 **Template only** | runnable via a workflow template, no dedicated recipe yet (niche / thin official docs) |
 
-**Totals:** ✅ 71 recipe families (covering ~126 model-name variants) · 🔧 18 utility tools · 📋 a few obscure
+**Totals:** ✅ 72 recipe families (covering ~126 model-name variants) · 🔧 18 utility tools · 📋 a few obscure
 template-only · plus text encoders / inference providers that are not generative models.
 
-**Updated: 2026-06-25.** Every ✅ entry has a current prompting recipe in
+**Updated: 2026-07-18.** Every ✅ entry has a current prompting recipe in
 [`MODELS.md`](../skills/comfyui/MODELS.md); every 🔧 entry has a when-to-use + settings note.
 
 ---
@@ -81,6 +81,7 @@ template-only · plus text encoders / inference providers that are not generativ
 | PixVerse | PixVerse | API |
 | Vidu | Vidu Q1 / Q2 / Q3 | API |
 | Pika | Pika 2.2 / 2.5 | API |
+| Sync (sync.so) | Sync 3 (lip sync, talking image) | API |
 
 ### Audio
 | Family | Run |

diff --git a/docs/MODEL_INDEX.md b/docs/MODEL_INDEX.md
@@ -1,6 +1,6 @@
 # Model index: every model in the library and what the kit has for it
 
-The template library names **152 distinct models** across 549 templates (plus 94 official Subgraph Blueprints, reusable subgraph bricks). This index shows, for each, what the kit
+The template library names **153 distinct models** across 562 templates (plus 94 official Subgraph Blueprints, reusable subgraph bricks). This index shows, for each, what the kit
 provides: a full prompt recipe in [`MODELS.md`](../skills/comfyui/MODELS.md), an enhancement/utility note, or
 template-only coverage (runnable via a template, no dedicated recipe yet).
 
@@ -10,10 +10,10 @@ template-only coverage (runnable via a template, no dedicated recipe yet).
 | 🔧 **Utility** | enhancement / utility tool, has a "when to use + settings" note (not prompt-driven) |
 | 📋 **Template only** | runnable via a workflow template, no dedicated recipe yet (niche / thin official docs) |
 
-**Totals:** ✅ 71 recipe families (covering ~126 model-name variants) · 🔧 18 utility tools · 📋 a few obscure
+**Totals:** ✅ 72 recipe families (covering ~126 model-name variants) · 🔧 18 utility tools · 📋 a few obscure
 template-only · plus text encoders / inference providers that are not generative models.
 
-**Updated: 2026-06-25.** Every ✅ entry has a current prompting recipe in
+**Updated: 2026-07-18.** Every ✅ entry has a current prompting recipe in
 [`MODELS.md`](../skills/comfyui/MODELS.md); every 🔧 entry has a when-to-use + settings note.
 
 ---
@@ -81,6 +81,7 @@ template-only · plus text encoders / inference providers that are not generativ
 | PixVerse | PixVerse | API |
 | Vidu | Vidu Q1 / Q2 / Q3 | API |
 | Pika | Pika 2.2 / 2.5 | API |
+| Sync (sync.so) | Sync 3 (lip sync, talking image) | API |
 
 ### Audio
 | Family | Run |

diff --git a/claude-code/skills/comfyui/ADVANCED.md b/claude-code/skills/comfyui/ADVANCED.md
@@ -76,8 +76,13 @@ The 2026 stack moved from SD-era flow hacks to native video models. Honest hiera
   models within reach of 8-12 GB (and even Pascal GTX 10xx) cards. Measured (LTXV 2.3, 1920x1088, RTX 5090): base
   268 s vs int8-convrot 140 s. v0.27.0 also fixed INT8 LoRA quality/speed and an INT8 memory leak. **Convert** a
   bf16 model with Comfy's own **`Comfy-Org/comfy-model-tools`** (`quant_int8_convrot.py`, dry-run first); Comfy-Org is
-  uploading official int8-convrot weights to HF (Wan 2.2 Animate, Z-Image, SeedVR2, more). The method extends to
-  INT4 and covers DiT / LLM / multimodal / UNet. This makes the earlier community pack
+  uploading official int8-convrot weights to HF (Wan 2.2 Animate, Z-Image, SeedVR2, more). **INT4 is native as of
+  v0.28.0** (`Support convrot int4 models`, PR #14859), with a same-release fix for **black images on Turing when
+  using int4 models** (PR #14864) - so on RTX 20xx make sure you are on v0.28.0 or later before blaming the quant.
+  v0.28.0 also shipped official int8 TEMPLATES across the library (Z-Image, Ideogram 4 t2i, Qwen-Image-Edit 2511,
+  Boogu edit, SeedVR2 3B/7B, Wan SCAIL2), so int8 is now a first-class path, not just a converter. **Known bug:**
+  an open core issue reports `int8 model cause PC crash` (comfyanonymous/ComfyUI#14985, opened 2026-07-18) - treat
+  int8 as fast but not yet bulletproof, and see KNOWN_ISSUES.md. The method covers DiT / LLM / multimodal / UNet. This makes the earlier community pack
   **`BobJohnson24/ComfyUI-INT8-Fast`** (which pioneered ComfyUI INT8, incl. the `INT8-ConvRot` quants some models
   like Flux2-Klein-9B-True-V3 shipped) **fully superseded** - use the native v0.27.0 path. Quality still trails
   bf16/fp16, so keep INT8 for speed passes, not final-grade VFX plates. Source:

diff --git a/docs/ADVANCED.md b/docs/ADVANCED.md
@@ -76,8 +76,13 @@ The 2026 stack moved from SD-era flow hacks to native video models. Honest hiera
   models within reach of 8-12 GB (and even Pascal GTX 10xx) cards. Measured (LTXV 2.3, 1920x1088, RTX 5090): base
   268 s vs int8-convrot 140 s. v0.27.0 also fixed INT8 LoRA quality/speed and an INT8 memory leak. **Convert** a
   bf16 model with Comfy's own **`Comfy-Org/comfy-model-tools`** (`quant_int8_convrot.py`, dry-run first); Comfy-Org is
-  uploading official int8-convrot weights to HF (Wan 2.2 Animate, Z-Image, SeedVR2, more). The method extends to
-  INT4 and covers DiT / LLM / multimodal / UNet. This makes the earlier community pack
+  uploading official int8-convrot weights to HF (Wan 2.2 Animate, Z-Image, SeedVR2, more). **INT4 is native as of
+  v0.28.0** (`Support convrot int4 models`, PR #14859), with a same-release fix for **black images on Turing when
+  using int4 models** (PR #14864) - so on RTX 20xx make sure you are on v0.28.0 or later before blaming the quant.
+  v0.28.0 also shipped official int8 TEMPLATES across the library (Z-Image, Ideogram 4 t2i, Qwen-Image-Edit 2511,
+  Boogu edit, SeedVR2 3B/7B, Wan SCAIL2), so int8 is now a first-class path, not just a converter. **Known bug:**
+  an open core issue reports `int8 model cause PC crash` (comfyanonymous/ComfyUI#14985, opened 2026-07-18) - treat
+  int8 as fast but not yet bulletproof, and see KNOWN_ISSUES.md. The method covers DiT / LLM / multimodal / UNet. This makes the earlier community pack
   **`BobJohnson24/ComfyUI-INT8-Fast`** (which pioneered ComfyUI INT8, incl. the `INT8-ConvRot` quants some models
   like Flux2-Klein-9B-True-V3 shipped) **fully superseded** - use the native v0.27.0 path. Quality still trails
   bf16/fp16, so keep INT8 for speed passes, not final-grade VFX plates. Source:
